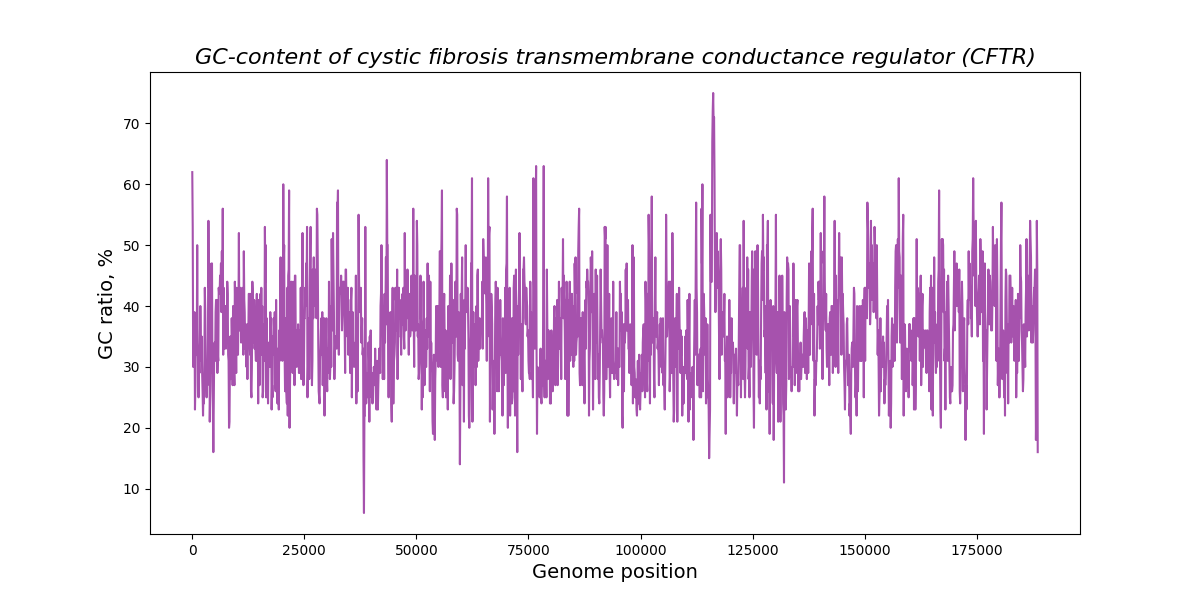
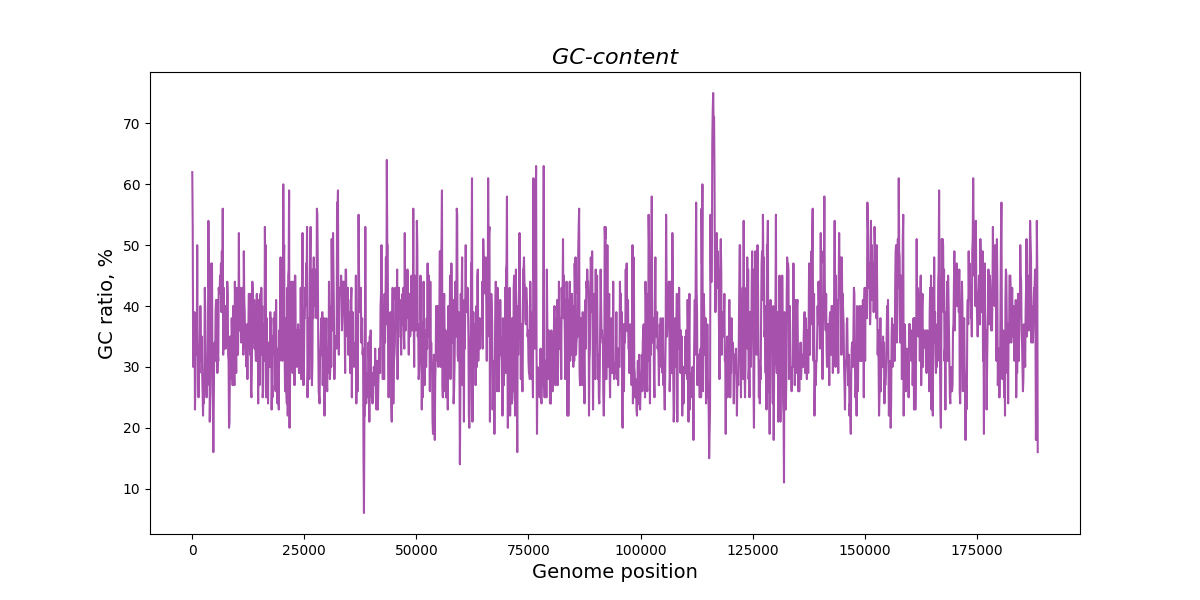
made docker-compose, added sys and command line arguments

Changed region(s): [[0.1542, 0.06, 0.8633, 0.12]]

diff --git a/script.py b/script.py
@@ -1,3 +1,4 @@
+import sys
 import matplotlib.pyplot as plt
 from data.filling import rna_dna_bases, aminoacids_tables
 from Bio.SeqIO import parse
@@ -33,7 +34,7 @@ def gc_ratio_plotting(string, step=100):
         x_axis.append(i)
         y_axis.append(gc_ratio)
     plt.plot(x_axis, y_axis, color='#a652ad')
-    plt.title('GC-content of cystic fibrosis transmembrane conductance regulator (CFTR)', style='italic', size=16)
+    plt.title('GC-content', style='italic', size=16)
     plt.xlabel('Genome position', size=14)
     plt.ylabel('GC ratio, %', size=14)
     figure = plt.gcf()
@@ -42,8 +43,24 @@ def gc_ratio_plotting(string, step=100):
     return plt.show()
 
 
-cftr_seq = parse(open('./data/gene.fna'), 'fasta')
-for s in cftr_seq:
-    cftr_seq = s.seq
+plot_seq = parse(open('./data/gene.fna'), 'fasta')
+for s in plot_seq:
+    plot_seq = s.seq
 
-cftr_gc_ratio = gc_ratio_plotting(cftr_seq)
+cftr_gc_ratio = gc_ratio_plotting(plot_seq)
+
+
+
+
+def command_input(input_data):
+    if len(sys.argv) == 3:
+        command = sys.argv[1].strip()
+        input_data = sys.argv[2]
+        if command == "trascription":
+            print(convert_dna_to_rna(input_data))
+        if command == "translation":
+            print(convert_rna_to_protein(input_data))
+    else:
+        print("You must put 3 arguments!")
+if __name__ == '__main__':
+    command_input(sys.argv)
